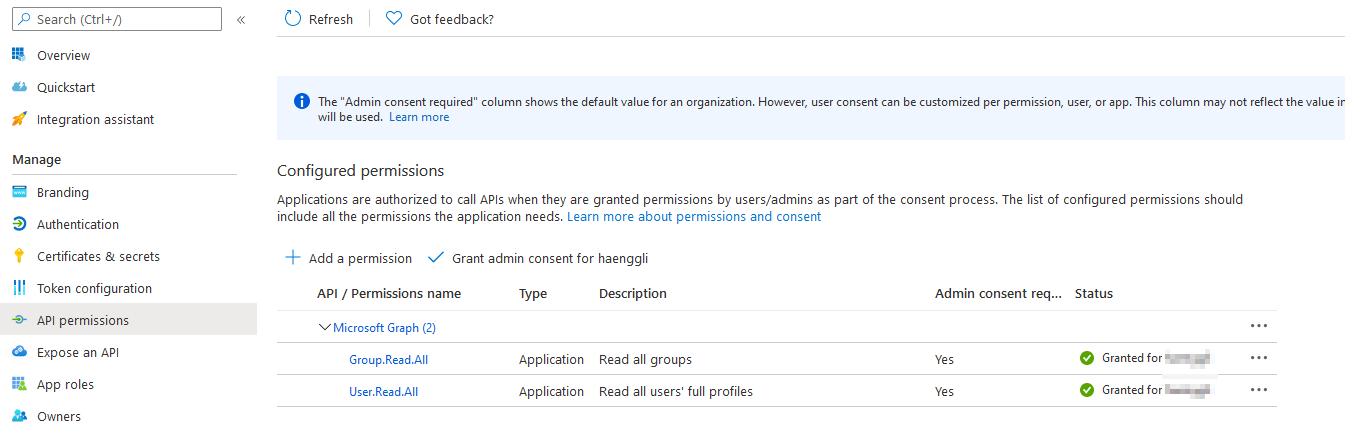
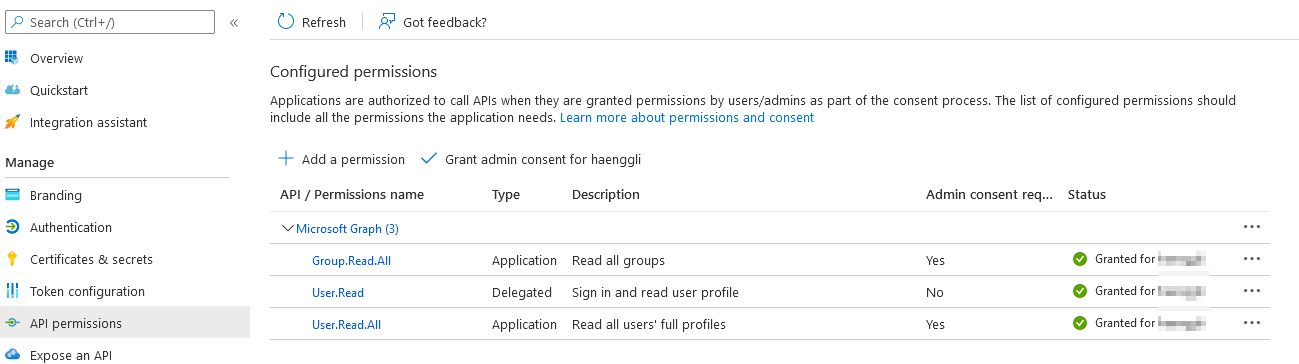
fix login problems after some tests

diff --git a/customizer/customizer_DSM7_IDs_string2int.js b/customizer/customizer_DSM7_IDs_string2int.js
@@ -16,7 +16,7 @@ var customizer = {};
 // convert gidNumber from string to int
 customizer.ModifyLDAPGroup = function (ldapgroup, azuregroup) {
     helper.log("customizer", "ModifyLDAPGroup", "called");
-    if(ldapgroup.hasOwnProperty("gidNumber")){
+    if (ldapgroup.hasOwnProperty("gidNumber")) {
         let parsed = parseInt(ldapgroup.gidNumber);
         if (isNaN(parsed)) parsed = ldapgroup.gidNumber;
         ldapgroup.gidNumber = parsed;
@@ -30,12 +30,12 @@ customizer.ModifyLDAPGroup = function (ldapgroup, azuregroup) {
 // convert gidNumber from string to int
 customizer.ModifyLDAPUser = function (ldapuser, azureuser) {
     helper.log("customizer", "ModifyLDAPUser", "called");
-    if(ldapuser.hasOwnProperty("gidNumber")){
+    if (ldapuser.hasOwnProperty("gidNumber")) {
         let parsed = parseInt(ldapuser.gidNumber);
         if (isNaN(parsed)) parsed = ldapuser.gidNumber;
         ldapuser.gidNumber = parsed;
     }
-    if(ldapuser.hasOwnProperty("uidNumber")){
+    if (ldapuser.hasOwnProperty("uidNumber")) {
         let parsed = parseInt(ldapuser.uidNumber);
         if (isNaN(parsed)) parsed = ldapuser.uidNumber;
         ldapuser.uidNumber = parsed;
@@ -46,6 +46,7 @@ customizer.ModifyLDAPUser = function (ldapuser, azureuser) {
 };
 
 customizer.ModifyLDAPGlobal = function (all) {
+    /*
     let tmpKey = "cn=synoconf,"+config.LDAP_BASEDN;
     tmpKey=tmpKey.toLowerCase(); all[tmpKey] = {}; all[tmpKey].entryDN=tmpKey;
     all[tmpKey].dn = tmpKey;
@@ -209,9 +210,7 @@ customizer.ModifyLDAPGlobal = function (all) {
     all[tmpKey].sambaGroupType= 2;
     all[tmpKey].structuralObjectClass= "posixGroup";
     all[tmpKey].entryUUID= "a15792d3-639f-4492-bbf3-13d07f43a220";
-    all[tmpKey].member= ["uid=admin,cn=users,dc=trait,dc=ch"];
-    all[tmpKey].memberUid= ["admin"];
-
+    
     tmpKey = "cn=Directory Clients,cn=groups,"+config.LDAP_BASEDN;
     tmpKey=tmpKey.toLowerCase(); all[tmpKey] = {}; all[tmpKey].entryDN=tmpKey;
     all[tmpKey].objectClass= ["top", "posixGroup", "extensibleObject","apple-group","sambaGroupMapping", "sambaIdmapEntry"];
@@ -237,8 +236,8 @@ customizer.ModifyLDAPGlobal = function (all) {
     all[tmpKey].sambaGroupType= 2;
     all[tmpKey].structuralObjectClass= "posixGroup";
     all[tmpKey].entryUUID= "dc88181e-fc2b-4c4e-b12e-f66ca2d29deb";
-
-    let root = "uid=root,"+config.LDAP_USERSDN;
+*/
+    let root = "uid=root," + config.LDAP_USERSDN;
     for (var key of Object.keys(all)) {
         //console.log(`${key}= ${value}`);
         all[key].creatorsName = root;
@@ -246,19 +245,18 @@ customizer.ModifyLDAPGlobal = function (all) {
         all[key].entryCSN = "20211018151157.389265Z#000000#000#000000";
         all[key].modifiersName = root;
         all[key].modifyTimestamp = "20211018151129Z";
-        
 
-        if(!all[key].hasOwnProperty("namingContexts")){
-            if(all[key].hasOwnProperty("hasSubordinates"))   delete all[key].hasSubordinates;
-            if(all[key].hasOwnProperty("subschemaSubentry")) delete all[key].subschemaSubentry;
+        if (!all[key].hasOwnProperty("namingContexts")) {
+            if (all[key].hasOwnProperty("hasSubordinates")) delete all[key].hasSubordinates;
+            if (all[key].hasOwnProperty("subschemaSubentry")) delete all[key].subschemaSubentry;
         } else {
             all[key].contextCSN = "20211018151157.389265Z#000000#000#000000";
         }
 
-        if(all[key].hasOwnProperty("sambaDomainName")){
+        if (all[key].hasOwnProperty("sambaDomainName")) {
             all[key].sambaDomainName = all[key].sambaDomainName.toLowerCase();
         }
-        
+
 
     }
 

diff --git a/server.js b/server.js
@@ -87,19 +87,26 @@ schemaDB["matchingRuleUse"] = helper.ReadCSVfile('./schema/matchingRuleUse.csv',
 schemaDB["attributeTypes"] = helper.ReadCSVfile('./schema/attributeTypes.csv', function (row) { if (Array.isArray(row)) return row.join(","); else return row; });
 schemaDB["objectClasses"] = helper.ReadCSVfile('./schema/objectClasses.csv', function (row) { if (Array.isArray(row)) return row.join(","); else return row; });
 
-
 ///--- Shared handlers
 const SUFFIX = '';
 function authorize(req, res, next) {
     /* Any user may search after bind, only cn=root has full power */
     var bindi = req.connection.ldap.bindDN.toString().replace(/ /g, '');
-    var username = bindi.replace(config.LDAP_USERRDN + "=", '').replace("," + config.LDAP_USERSDN, '');
+    var username = bindi.toLowerCase().replace(config.LDAP_USERRDN + "=", '').replace("," + config.LDAP_USERSDN, '');
 
     const isSearch = (req instanceof ldap.SearchRequest);
-    const isAdmin = (config.LDAP_BINDUSER && config.LDAP_BINDUSER.toString().split("||").indexOf(username + '|') > -1);
+    var isAdmin = false;
+   
+    if (config.LDAP_BINDUSER) {
+        for (var u of config.LDAP_BINDUSER.toString().split("||")) {
+            u = u.split("|")[0];            
+            if (u === username) isAdmin = true;
+        }
+    }
 
     if (!isAdmin && !isSearch) {
         helper.error("server.js", "authorize - denied for => ", username, bindi);
+               
         return next(new ldap.InsufficientAccessRightsError());
     }
 

diff --git a/CHANGELOG.md b/CHANGELOG.md
@@ -10,7 +10,8 @@ and this project adheres to [Semantic Versioning](https://semver.org/spec/v2.0.0
 ### Changed
 - Switched from @azure/ms-rest-nodeauth to @azure/Identity (ADAL to MSAL)
 ~~[Treat application as a public client](https://github.com/AzureAD/microsoft-authentication-library-for-dotnet/wiki/Username-Password-Authentication#application-registration) may be set to `true`~~  
-Set [Allow public client flows](https://github.com/AzureAD/microsoft-authentication-library-for-dotnet/wiki/Username-Password-Authentication#application-registration) to `Yes` in your Azure Portal or you can't login anymore. ![Azure ROPC](.github/media/azure_ROPC.png)
+Set [Allow public client flows](https://github.com/AzureAD/microsoft-authentication-library-for-dotnet/wiki/Username-Password-Authentication#application-registration) to `Yes` and add the permission `User.Read` for `Delegated`  in your Azure Portal or you can't login anymore. The settings are described with some images in the [README](README.md#how-to-use-it).  
+Those changes were nesessary to use MSAL instead of ADAL.
 ### Added
 - handler to add new ldap entries
 - handler to remove/delete new ldap entries

diff --git a/README.md b/README.md
@@ -16,7 +16,8 @@ This is especially useful when you don't want to maintain an on-premise AD contr
 
 1. Register a new App in your [aad-portal](https://aad.portal.azure.com/#blade/Microsoft_AAD_IAM/ActiveDirectoryMenuBlade/RegisteredApps) as described [here](https://docs.microsoft.com/en-us/azure/active-directory/develop/howto-create-service-principal-portal)
 2. Set the following Graph-API Application permissions:  
-`User.Read.All` and `Group.Read.All`
+`User.Read.All` and `Group.Read.All` for `Application`  
+`User.Read` for `Delegated`  
 ![Azure Permissions](.github/media/azure_permissions.png)
 3. Set [Allow public client flows](https://github.com/AzureAD/microsoft-authentication-library-for-dotnet/wiki/Username-Password-Authentication#application-registration) to `Yes` ![Azure ROPC](.github/media/azure_ROPC.png)
 4. Use a [docker container](https://hub.docker.com/r/ahaen/azuread-ldap-wrapper) and start it with the right environment variables.
